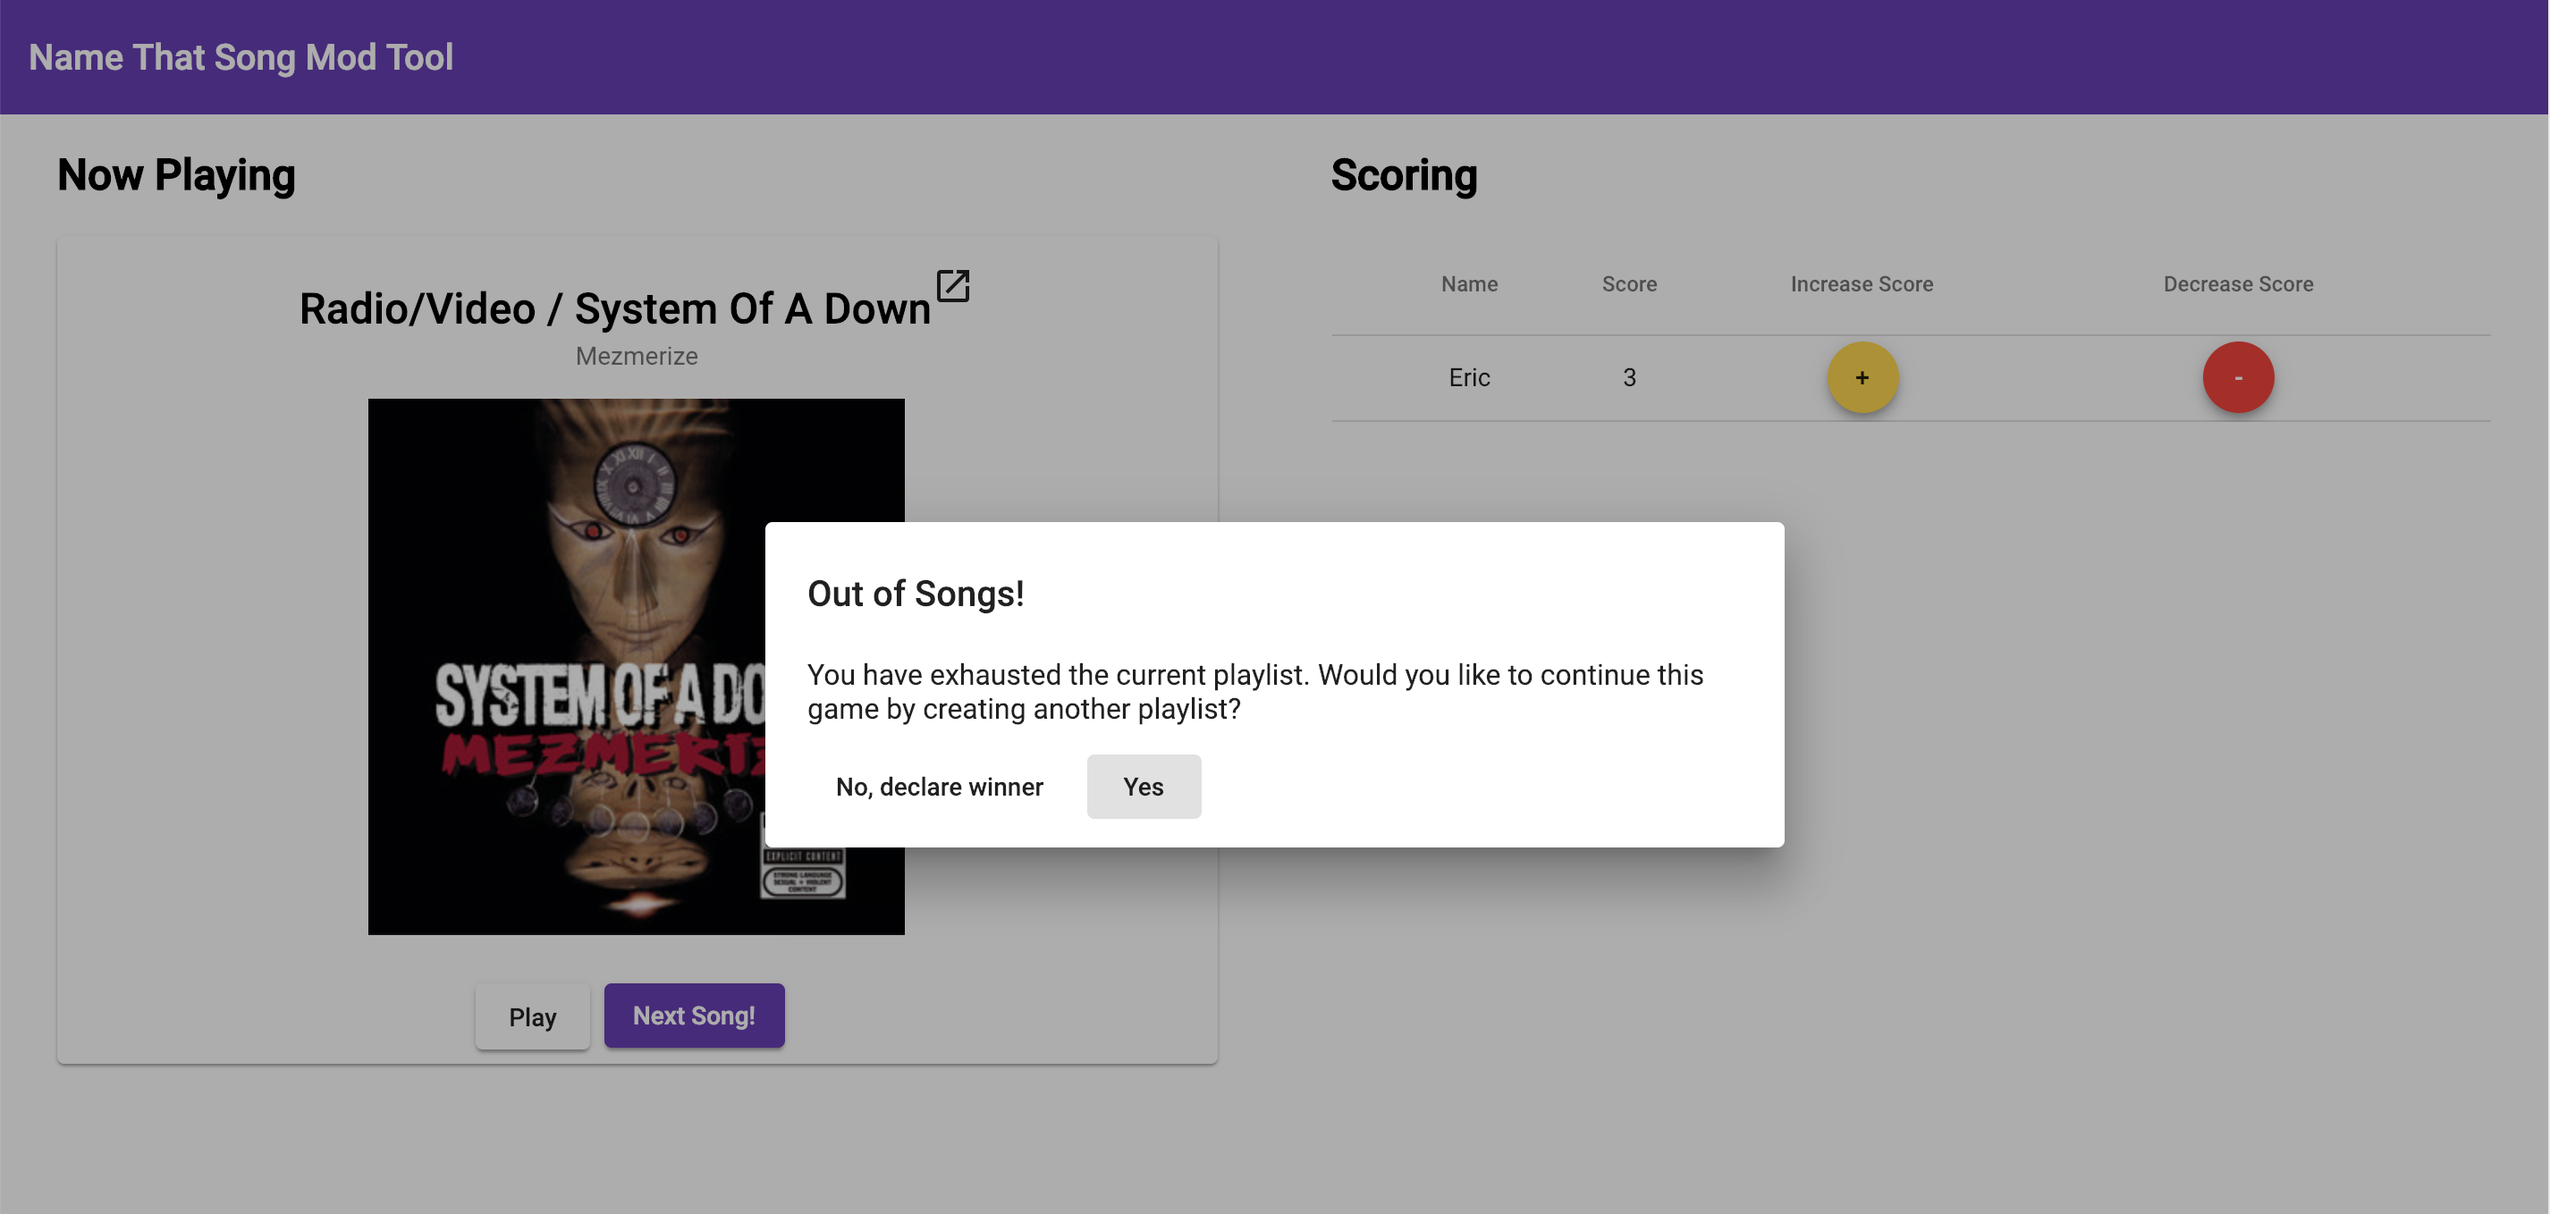
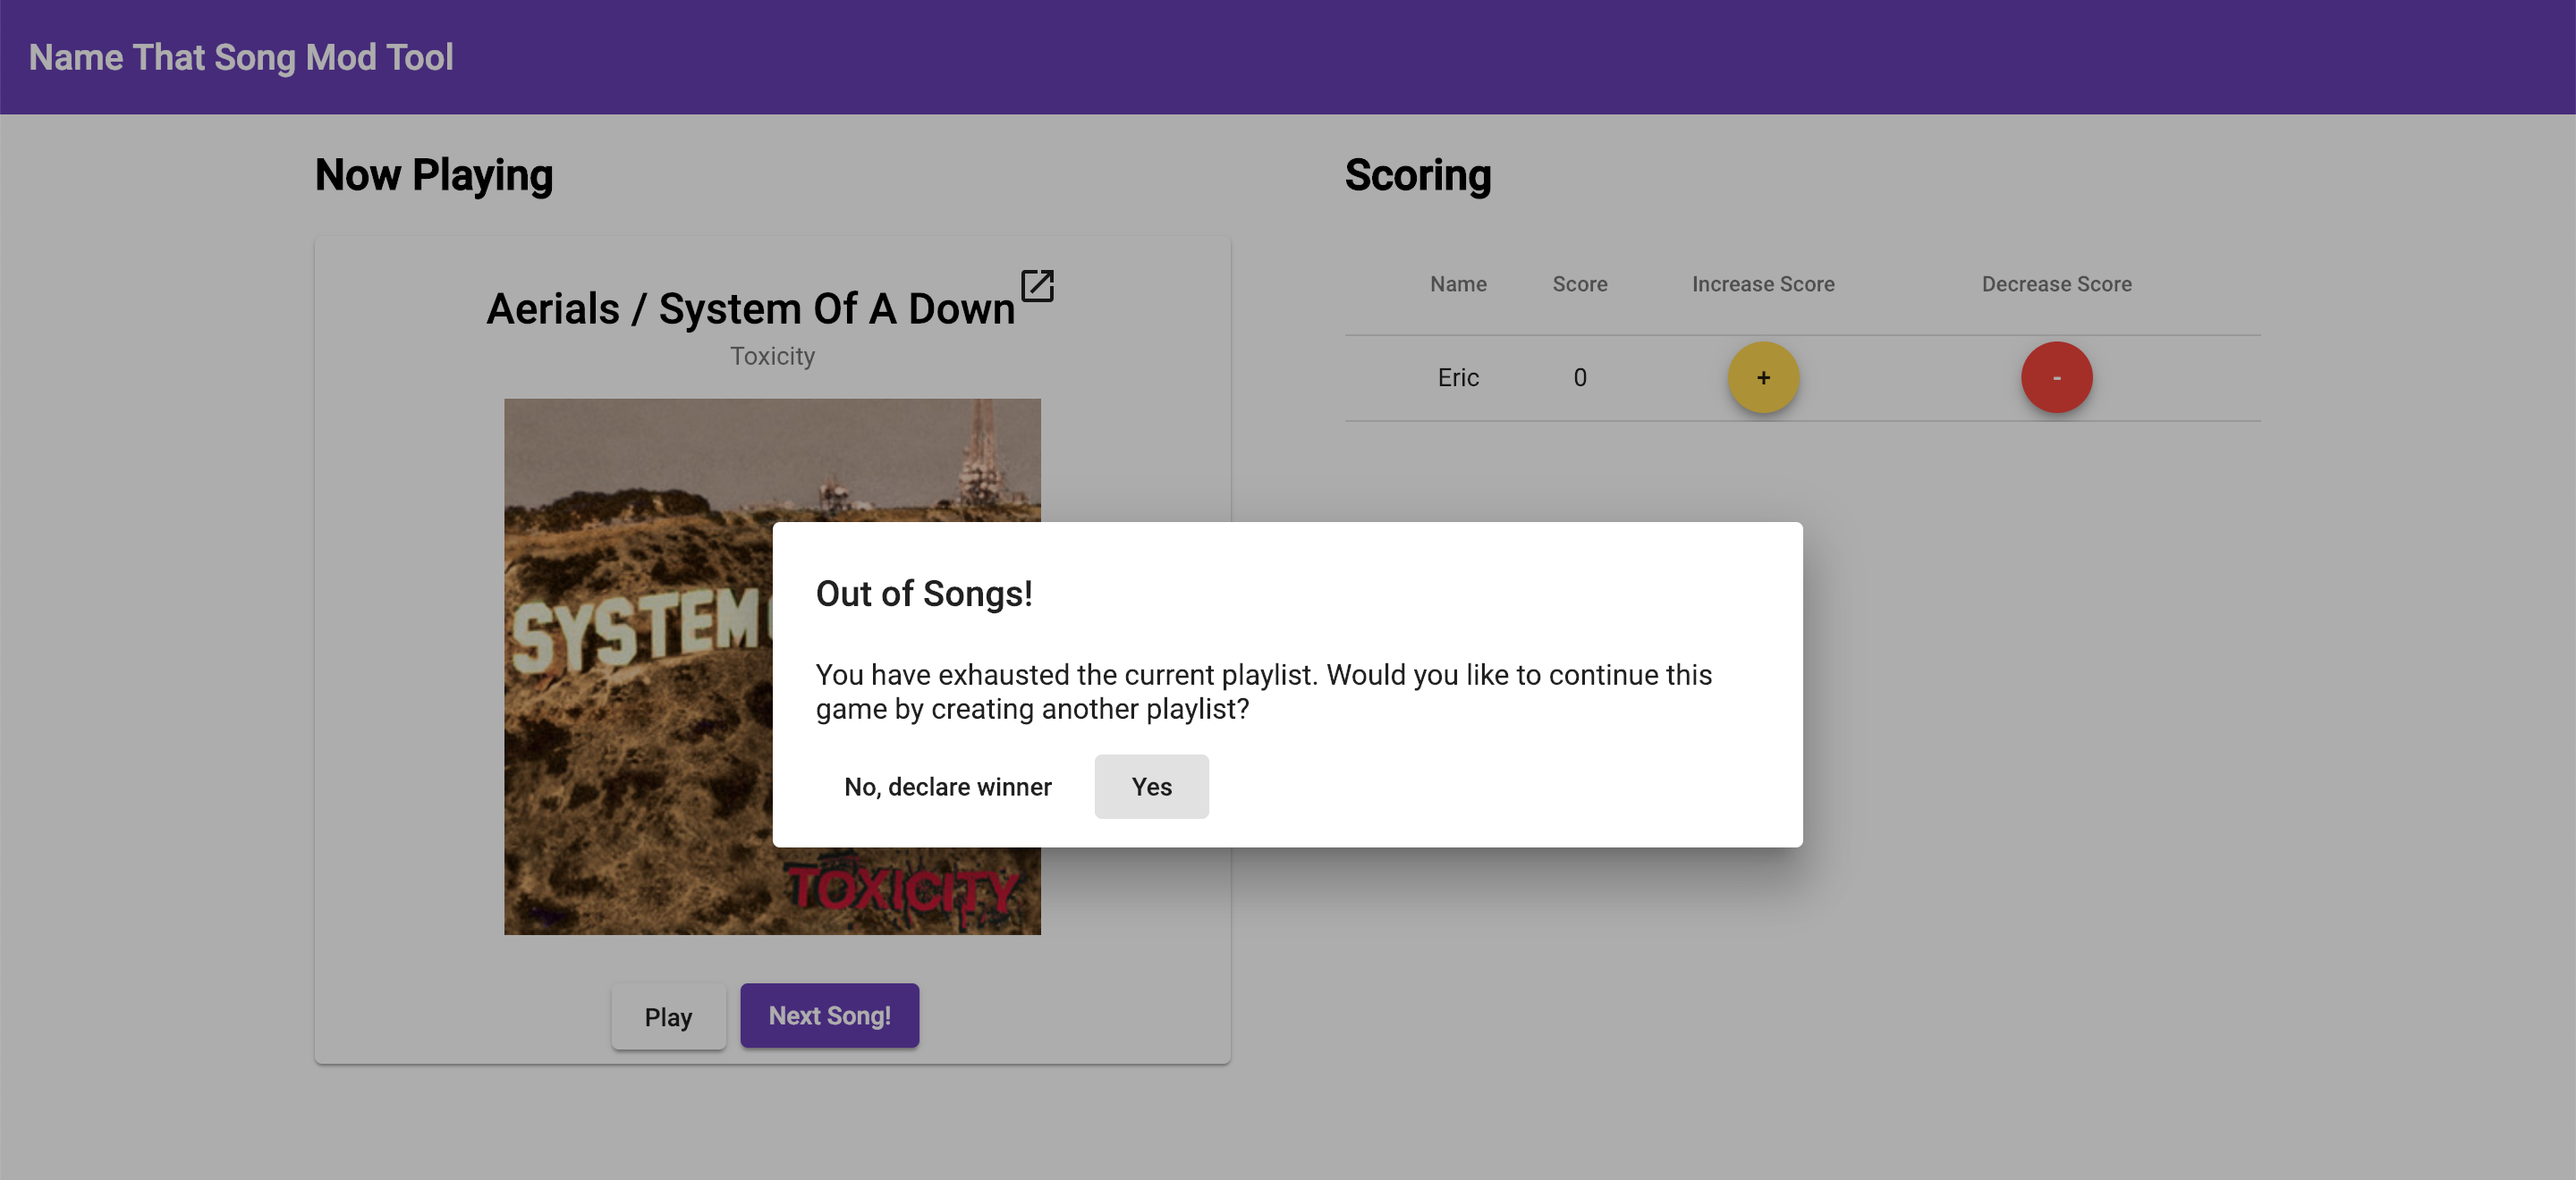
Update play game page with content well matching the other pages

diff --git a/src/app/components/playGame/playGame.component.scss b/src/app/components/playGame/playGame.component.scss
@@ -2,6 +2,9 @@
     display: flex;
     height: 100%;
     flex-wrap: wrap;
+    justify-content: center;
+    margin: auto;
+    max-width: 80%;
 }
 
 section {
